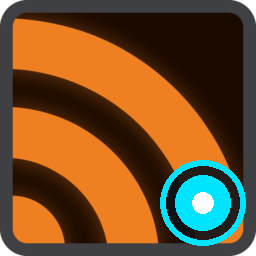
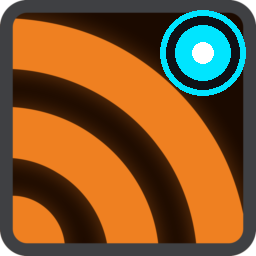
feat: move tray busy LED to top-right and add dynamic loading tooltip

Changed region(s): [[0.625, 0.625, 0.9688, 0.9688], [0.625, 0.0312, 0.9688, 0.375]]

diff --git a/src/main/tray.ts b/src/main/tray.ts
@@ -36,6 +36,17 @@ function loadTrayImage(busy = false): Electron.NativeImage {
   return nativeImage.createFromPath(path.join(resourcesDir, 'icon.ico'))
 }
 
+function updateTrayTooltip(busy: boolean): void {
+  const version = app.getVersion()
+  if (busy) {
+    const lang = db.getSettings().language || 'en'
+    const loadingText = translations[lang]?.mainProcess?.tray?.loadingFeeds || 'Loading feeds...'
+    tray?.setToolTip(`CyberFeeds v${version} — ${loadingText}`)
+  } else {
+    tray?.setToolTip(`CyberFeeds v${version}`)
+  }
+}
+
 export function setTrayActivity(source: 'polling' | 'batch', active: boolean): void {
   if (active) {
     activeActivities.add(source)
@@ -49,6 +60,7 @@ export function setTrayActivity(source: 'polling' | 'batch', active: boolean): v
     if (!blinkTimer) {
       isBlinkStateOn = true
       tray?.setImage(loadTrayImage(true))
+      updateTrayTooltip(true)
       blinkTimer = setInterval(() => {
         isBlinkStateOn = !isBlinkStateOn
         tray?.setImage(loadTrayImage(isBlinkStateOn))
@@ -61,6 +73,7 @@ export function setTrayActivity(source: 'polling' | 'batch', active: boolean): v
     }
     isBlinkStateOn = false
     tray?.setImage(loadTrayImage(false))
+    updateTrayTooltip(false)
   }
 }
 
@@ -71,7 +84,7 @@ export function createTray(mainWindow: BrowserWindow): Tray {
   buildMenu()
   registerGlobalShortcuts()
 
-  tray.setToolTip(`CyberFeeds v${app.getVersion()}`)
+  updateTrayTooltip(false)
 
   tray.on('click', () => {
     const win = _mainWindow

diff --git a/src/shared/translations.ts b/src/shared/translations.ts
@@ -410,6 +410,7 @@ export const translations = {
         fetchNow: 'Fetch Now',
         pauseFeeds: 'Pause feeds',
         resumeFeeds: 'Resume feeds',
+        loadingFeeds: 'Loading feeds...',
         quit: 'Exit'
       },
       webviewCtx: {
@@ -844,6 +845,7 @@ export const translations = {
         fetchNow: 'Buscar ahora',
         pauseFeeds: 'Pausar feeds',
         resumeFeeds: 'Reactivar feeds',
+        loadingFeeds: 'Cargando feeds...',
         quit: 'Salir'
       },
       webviewCtx: {

diff --git a/scripts/update-icons.py b/scripts/update-icons.py
@@ -47,15 +47,15 @@ def generate_busy_overlay(src_png: Path, dest_png: Path, is_256: bool) -> None:
     overlay = Image.new('RGBA', img.size, (0, 0, 0, 0))
     draw = ImageDraw.Draw(overlay)
     if is_256:
-        # 256x256 frame
-        draw.ellipse([160, 160, 245, 245], fill=(13, 17, 23, 230), outline=(0, 229, 255, 255), width=6)
-        draw.ellipse([175, 175, 230, 230], fill=(0, 229, 255, 255))
-        draw.ellipse([192, 192, 213, 213], fill=(255, 255, 255, 255))
+        # 256x256 frame: top-right LED
+        draw.ellipse([160, 10, 245, 95], fill=(13, 17, 23, 230), outline=(0, 229, 255, 255), width=6)
+        draw.ellipse([175, 25, 230, 80], fill=(0, 229, 255, 255))
+        draw.ellipse([192, 42, 213, 63], fill=(255, 255, 255, 255))
     else:
-        # 32x32 frame
-        draw.ellipse([19, 19, 31, 31], fill=(13, 17, 23, 230), outline=(0, 229, 255, 255), width=1)
-        draw.ellipse([21, 21, 29, 29], fill=(0, 229, 255, 255))
-        draw.ellipse([23, 23, 27, 27], fill=(255, 255, 255, 255))
+        # 32x32 frame: top-right LED
+        draw.ellipse([19, 1, 31, 13], fill=(13, 17, 23, 230), outline=(0, 229, 255, 255), width=1)
+        draw.ellipse([21, 3, 29, 11], fill=(0, 229, 255, 255))
+        draw.ellipse([23, 5, 27, 9], fill=(255, 255, 255, 255))
     res = Image.alpha_composite(img, overlay)
     res.save(dest_png, format='PNG')
     w, h = png_size(dest_png)
